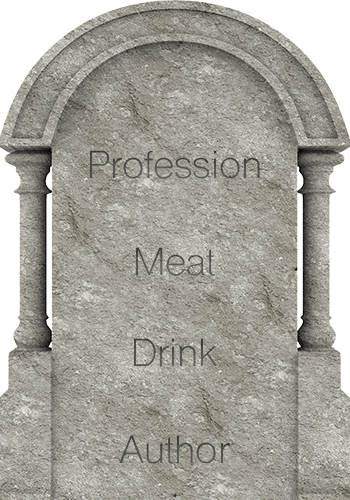
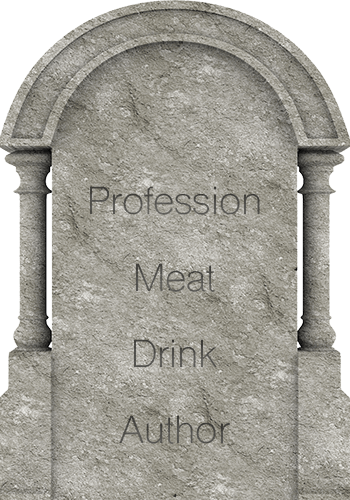
est changes

diff --git a/GraveArrangement/css/style.css b/GraveArrangement/css/style.css
@@ -1,15 +1,20 @@
 body {
-
-background-image: url('../images/BG.png');
+/*background-image: url('../images/BG.png');*/
 background-position: center;
 background-repeat: no-repeat;
 background-size: cover;
-background-color: grey;
-height: 100vh;
-width: 140vh;
-border: dashed red 1px;
 
+height: 100vh;
+width: auto;
+border: dashed red 0px;
 }
+
+.image-box {
+  /* Here's the trick second value is the top, first value the bottom */
+  background: linear-gradient(rgba(155,100,100,0.5), rgba(040,040,055,0.2)), var(--image-url) center center;
+}
+
+
 
 .headingstyle {
   justify-content: center;
@@ -94,20 +99,24 @@ max-height: 70vh;
 /* Centered text font-size: 2.2vh;s    THE RULES */
 .centered {
   position: absolute;
-  font-size: 2.6vh; 
+  font-size: 1.5vw;
+   
   font-family: Metrophobic;
   font-weight: lighter;
   /*text-transform: uppercase;*/
   color: #dedbd9;
   top: 0%;
   min-width: 100%;
+  
   background: -o-linear-gradient(transparent, transparent);
-    color: transparent;
-    text-shadow: rgba(245,245,245,0.7) 3px 5px 1px;
+    color: darkgrey;
+    text-shadow: rgba(245,245,245,0.3) -1px -1px -1px;
+  
   border-style: solid;
   border-color: yellow;
   border-width: 0px;
   transition: 0.3s;
+  justify-content: center;
  
 
 
@@ -115,23 +124,15 @@ max-height: 70vh;
 
 
 .centered:hover
-{transform: scale(1.17);
+{transform: scale(1.25);
   cursor: w-resize;
 }
-
-
-
-
-
-
 
 
 /*ID THAT JAVASCRIPT USES. ALSO THE DIV ABOVE GRAVES AND POTENTIALLY BLANKS*/
 #books
 {
-  /*border-style: solid;
-  border-color: black;
-  border-width: 3px;*/
+  /*border: solide green 1px;*/
   display: flex;
 }
 
@@ -147,10 +148,10 @@ display: inline;
 /*DIV FOR ALL FOUR GRAVES*/
 .graves
 {
-border: dashed yellow 1px;
+border: dashed yellow 0px;
 display: flex;
 min-height: 40vh;
-max-height: 45vh;
+max-height: 40vh;
 justify-content: center;
 }
 
@@ -158,18 +159,25 @@ justify-content: center;
 /*DIV FOR EACH INDIVIDUAL GRAVE*/
 .spaced
 {
-/*border-style: solid;
-border-color: pink; */
-padding-top: 8%;
+
+border: solid pink 0px;
+padding-top: 4%;
 padding-left: 2%;
 padding-right: 2%;
 background-image: url("../images/GRAVEREAL.png"); /**/
 background-size: contain;
 background-position: center;
 background-repeat: no-repeat;
+height: 35vh;
 max-width: 20%;
 
 }
+
+/*TO PUSH THE GRAVE DROP ZONE WHERE EVER*/
+#alpha {margin-top: 40%;}
+#echo {margin-top: 35%;}
+#india {margin-top: 35%;}
+#mike {margin-top: 35%;}
 
 
 /*DIV FOR ALL BLANK SPOTS*/
@@ -179,8 +187,8 @@ border-color: red; */
 padding-top: 0%;
 padding-left: 1%;
 padding-right: 1%;
-height: 100vh;
-border: blue dashed;
+height: 96vh;
+border: blue dashed 0px;
 /*
 background-image: url("");
 background-position: center;
@@ -223,16 +231,21 @@ background-size: cover;
 {
   min-height: 1%;
   flex: 1;
-  /*border-style: double dashed;
-  border-color: white;*/
+  border: dashed white 0px;
+  justify-content: center;
+  padding-right: 8px;
 }
+
+
+
 
 
 .bookimg 
 {
     width: auto;
     margin: 0px;
-    height: 5.7vh;
+    height: 5.1vh;
+    
 
 }
 

diff --git a/GraveArrangement/js/main.js b/GraveArrangement/js/main.js
@@ -1,6 +1,6 @@
 window.onload = (() => {
-    let correctOrder = ['ANTHROPOLOGY', 'HERBOLOGY', 'PSYCHOLOGY', 'THEOLOGY', 'CHICKEN', 'ELK', 'FISH', 'RABBIT', 'BEER', 'CHAMPAGNE', 'VODKA', 'COGNAC', 'GOETHE', 'KAFKA', 'NIETZSCHE', 'TOLSTOY', 'BLANK', 'BLANK', 'BLANK', 'BLANK', 'BLANK', 'BLANK', 'BLANK', 'BLANK', 'BLANK', 'BLANK', 'BLANK', 'BLANK', 'BLANK', 'BLANK', 'BLANK', 'BLANK'];
-    //let correctOrder = ['ANTHROPOLOGY', 'BEER', 'CHAMPAGNE', 'CHICKEN',     'COGNAC', 'ELK', 'FISH', 'GOETHE',       'HERBOLOGY', 'KAFKA', 'NIETZSCHE',  'PSYCHOLOGY',     'RABBIT', 'THEOLOGY', 'VODKA', 'TOLSTOY',     'BLANK', 'BLANK', 'BLANK', 'BLANK',      'BLANK', 'BLANK', 'BLANK', 'BLANK',    'BLANK', 'BLANK', 'BLANK', 'BLANK',    'BLANK', 'BLANK', 'BLANK', 'BLANK'];
+    //let correctOrder = ['ANTHROPOLOGY', 'HERBOLOGY', 'PSYCHOLOGY', 'THEOLOGY', 'CHICKEN', 'ELK', 'FISH', 'RABBIT', 'BEER', 'CHAMPAGNE', 'VODKA', 'COGNAC', 'GOETHE', 'KAFKA', 'NIETZSCHE', 'TOLSTOY', 'BLANK', 'BLANK', 'BLANK', 'BLANK', 'BLANK', 'BLANK', 'BLANK', 'BLANK', 'BLANK', 'BLANK', 'BLANK', 'BLANK', 'BLANK', 'BLANK', 'BLANK', 'BLANK'];
+    let correctOrder = ['ANTHROPOLOGY', 'BEER', 'CHAMPAGNE', 'CHICKEN',     'COGNAC', 'ELK', 'FISH', 'GOETHE',       'HERBOLOGY', 'KAFKA', 'NIETZSCHE',  'PSYCHOLOGY',     'RABBIT', 'THEOLOGY', 'VODKA', 'TOLSTOY',     'BLANK', 'BLANK', 'BLANK', 'BLANK',      'BLANK', 'BLANK', 'BLANK', 'BLANK',    'BLANK', 'BLANK', 'BLANK', 'BLANK',    'BLANK', 'BLANK', 'BLANK', 'BLANK'];
         //let correctOrder = ['BLANK', 'BLANK', 'BLANK', 'BLANK',  'BLANK', 'BLANK', 'BLANK', 'BLANK',  'BLANK', 'BLANK', 'BLANK', 'BLANK',  'BLANK', 'BLANK', 'BLANK', 'BLANK',    'THEOLOGY', 'RABBIT', 'VODKA', 'TOLSTOY',     'PSYCHOLOGY', 'ELK', 'CHAMPAGNE', 'GOETHE',       'ANTHROPOLOGY', 'CHICKEN', 'BEER',  'KAFKA',     'HERBOLOGY', 'FISH', 'COGNAC','NIETZSCHE'];
 
 

diff --git a/GraveArrangement/index.html b/GraveArrangement/index.html
@@ -12,12 +12,10 @@
     <script src="js/main.js"></script>
 </head>
 
-<body>
+<body class="image-box" style="--image-url: url('https://raw.githubusercontent.com/tgb20/PuzzledPuzzles/main/GraveArrangement/images/BG.png');">
    
 
 
-	
-    
 
 
 
